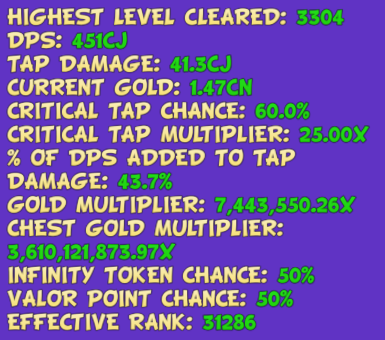
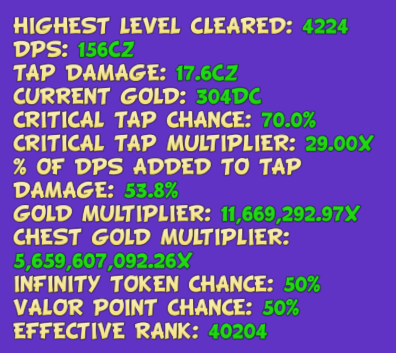
updated save file and info inside README (achievements 95 -> 96, ascend times 10 -> 13)

diff --git a/README.md b/README.md
@@ -4,8 +4,8 @@ This repository contains [save](./SAVE) for [Tap Tap Infinity](https://store.ste
 
 ## All time stats
 
-* **Achievements earned:** 95/100
-* **Ascend times:** 10
+* **Achievements earned:** 96/100
+* **Ascend times:** 13
 
 ![All time stats](./all-time-stats.png)
 
